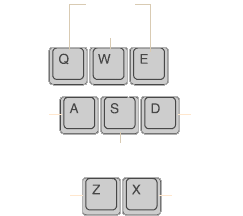
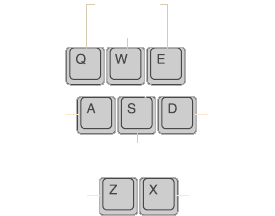
Added right keypad image, adjusted left one. WIP.

diff --git a/webpage/index.html b/webpage/index.html
@@ -46,7 +46,7 @@
 							</div>
 
 							<div class="box">
-								<img class="image keypad"src="images/keypad-l.png" alt="" />
+								<img class="image keypad"src="images/keypad-r.png" alt="" />
 							</div>
 						</div>
 					</div>

diff --git a/webpage/assets/css/main.css b/webpage/assets/css/main.css
@@ -501,7 +501,7 @@
 		.box .image.keypad {
             margin: 0;
             padding: 3em;
-            width: auto;
+            width: 275px;
             max-width: 100%;
         }
 
